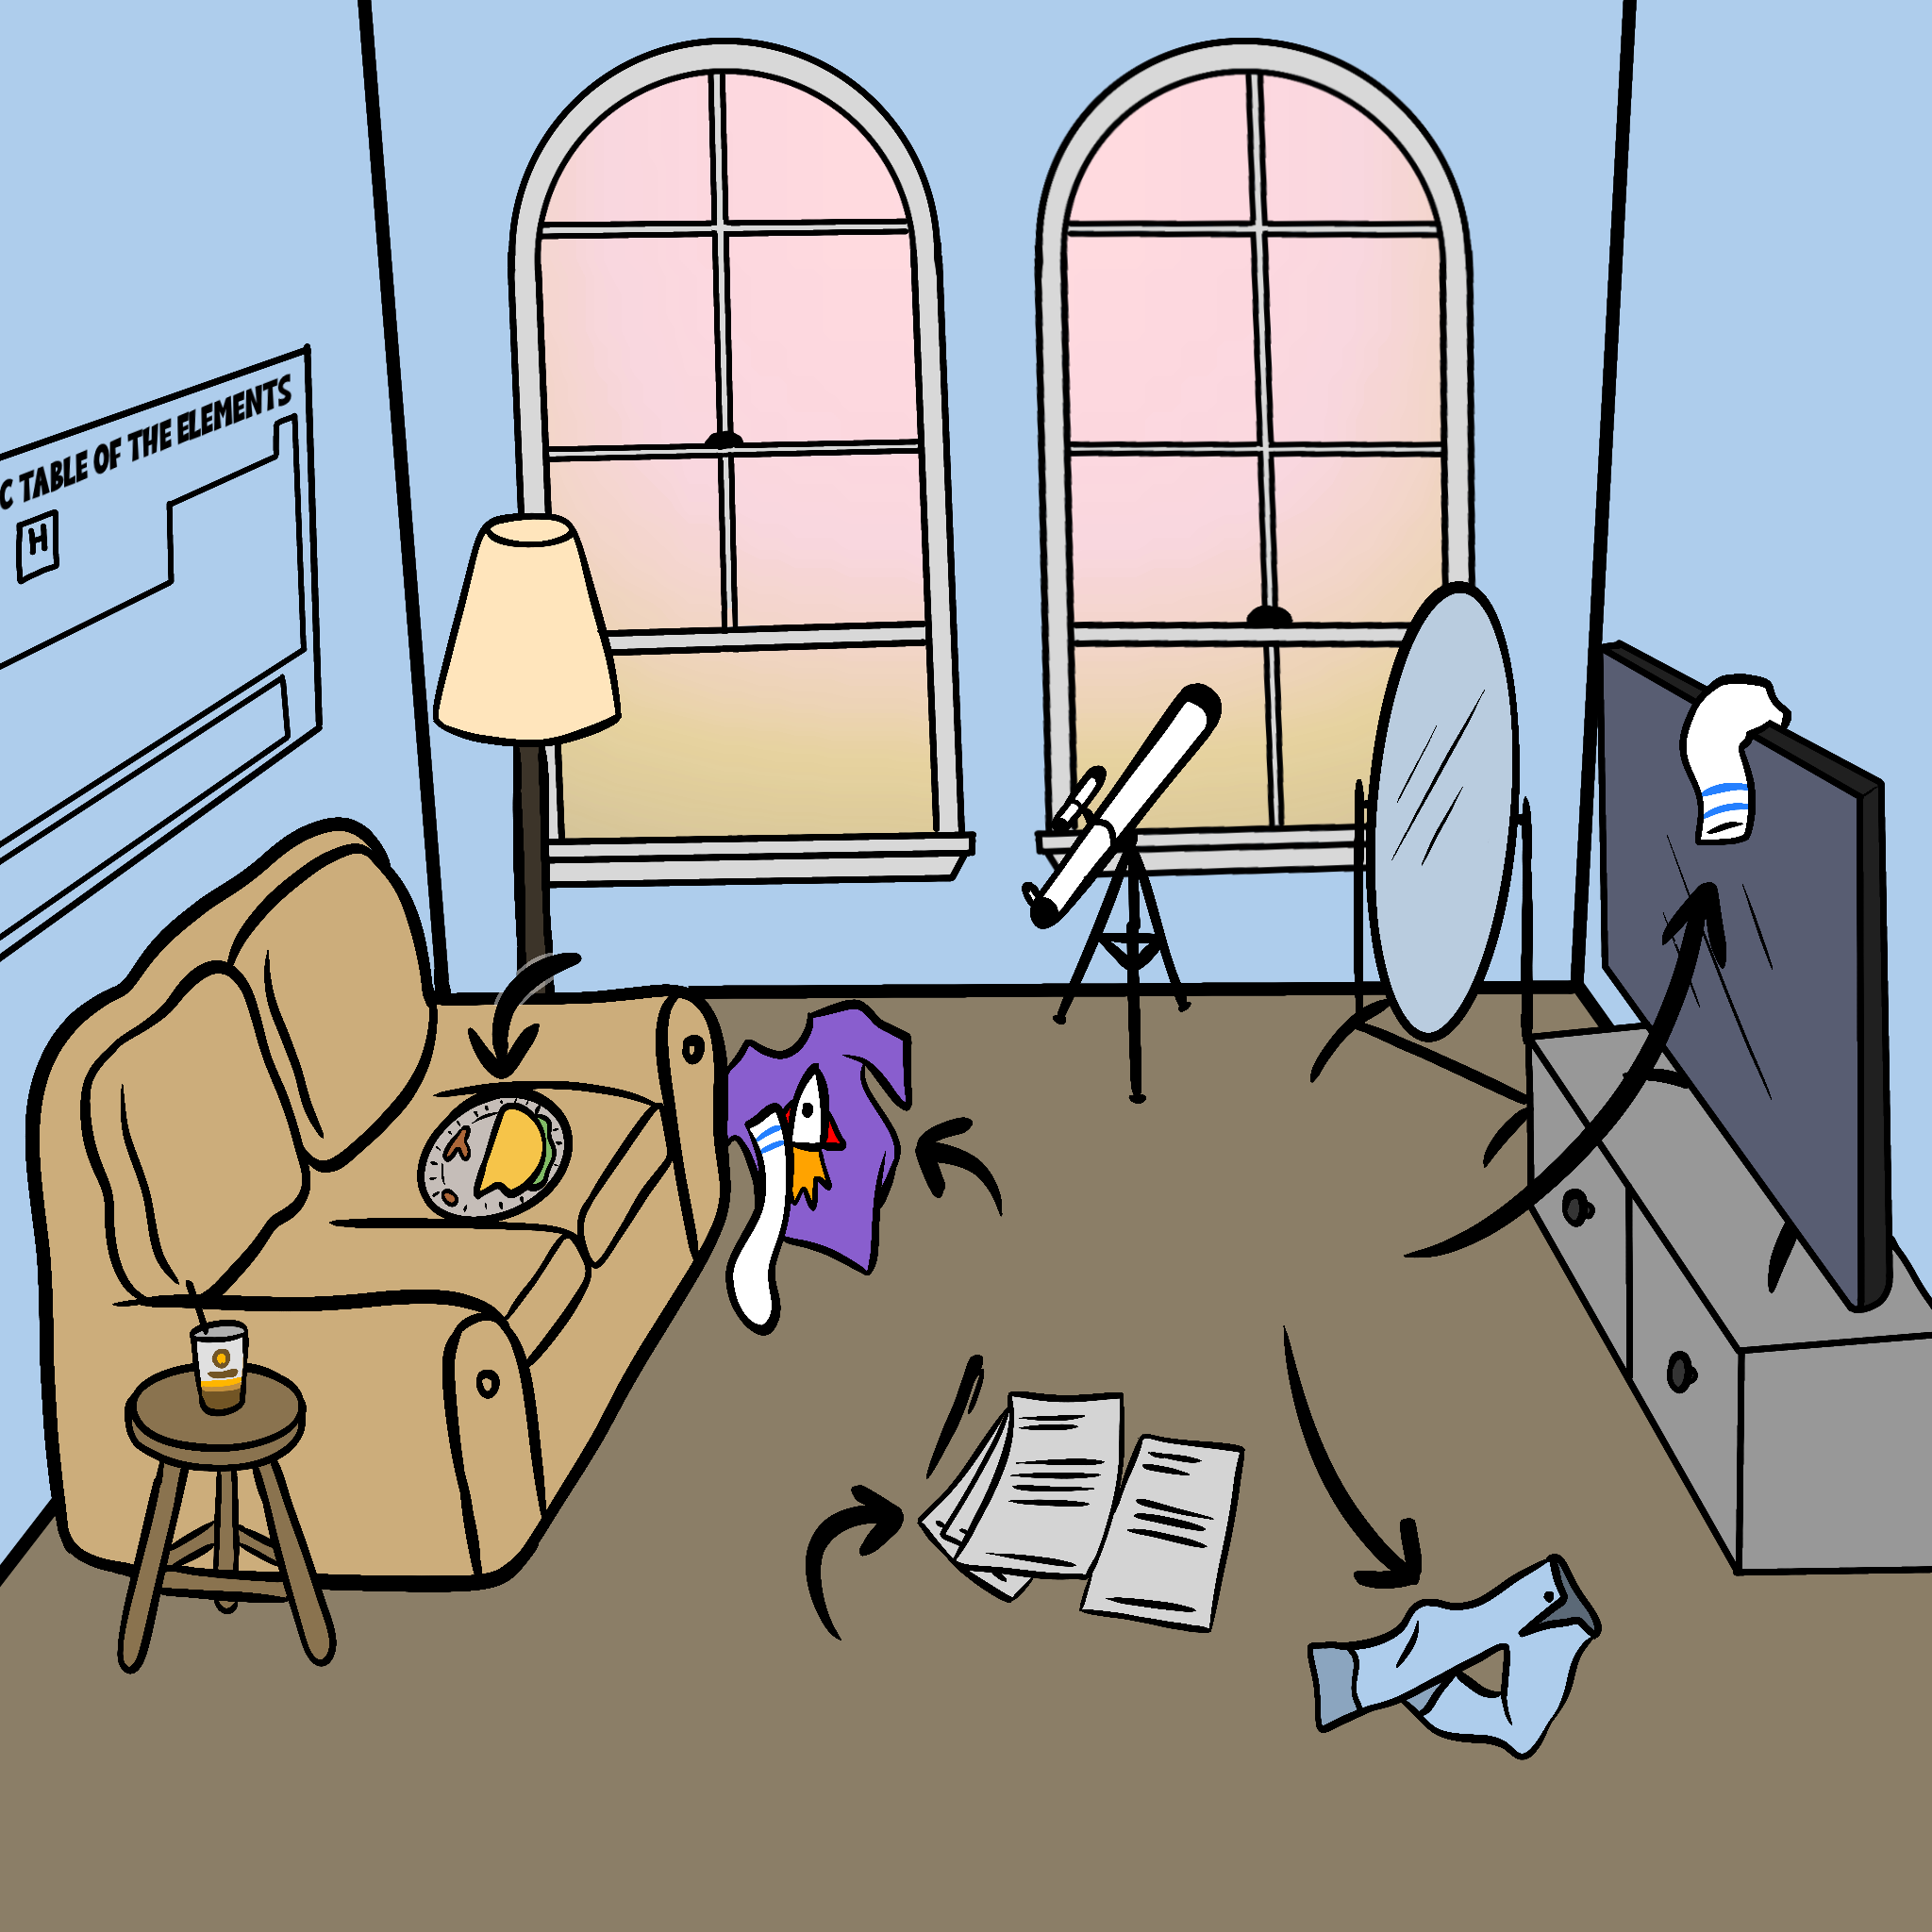
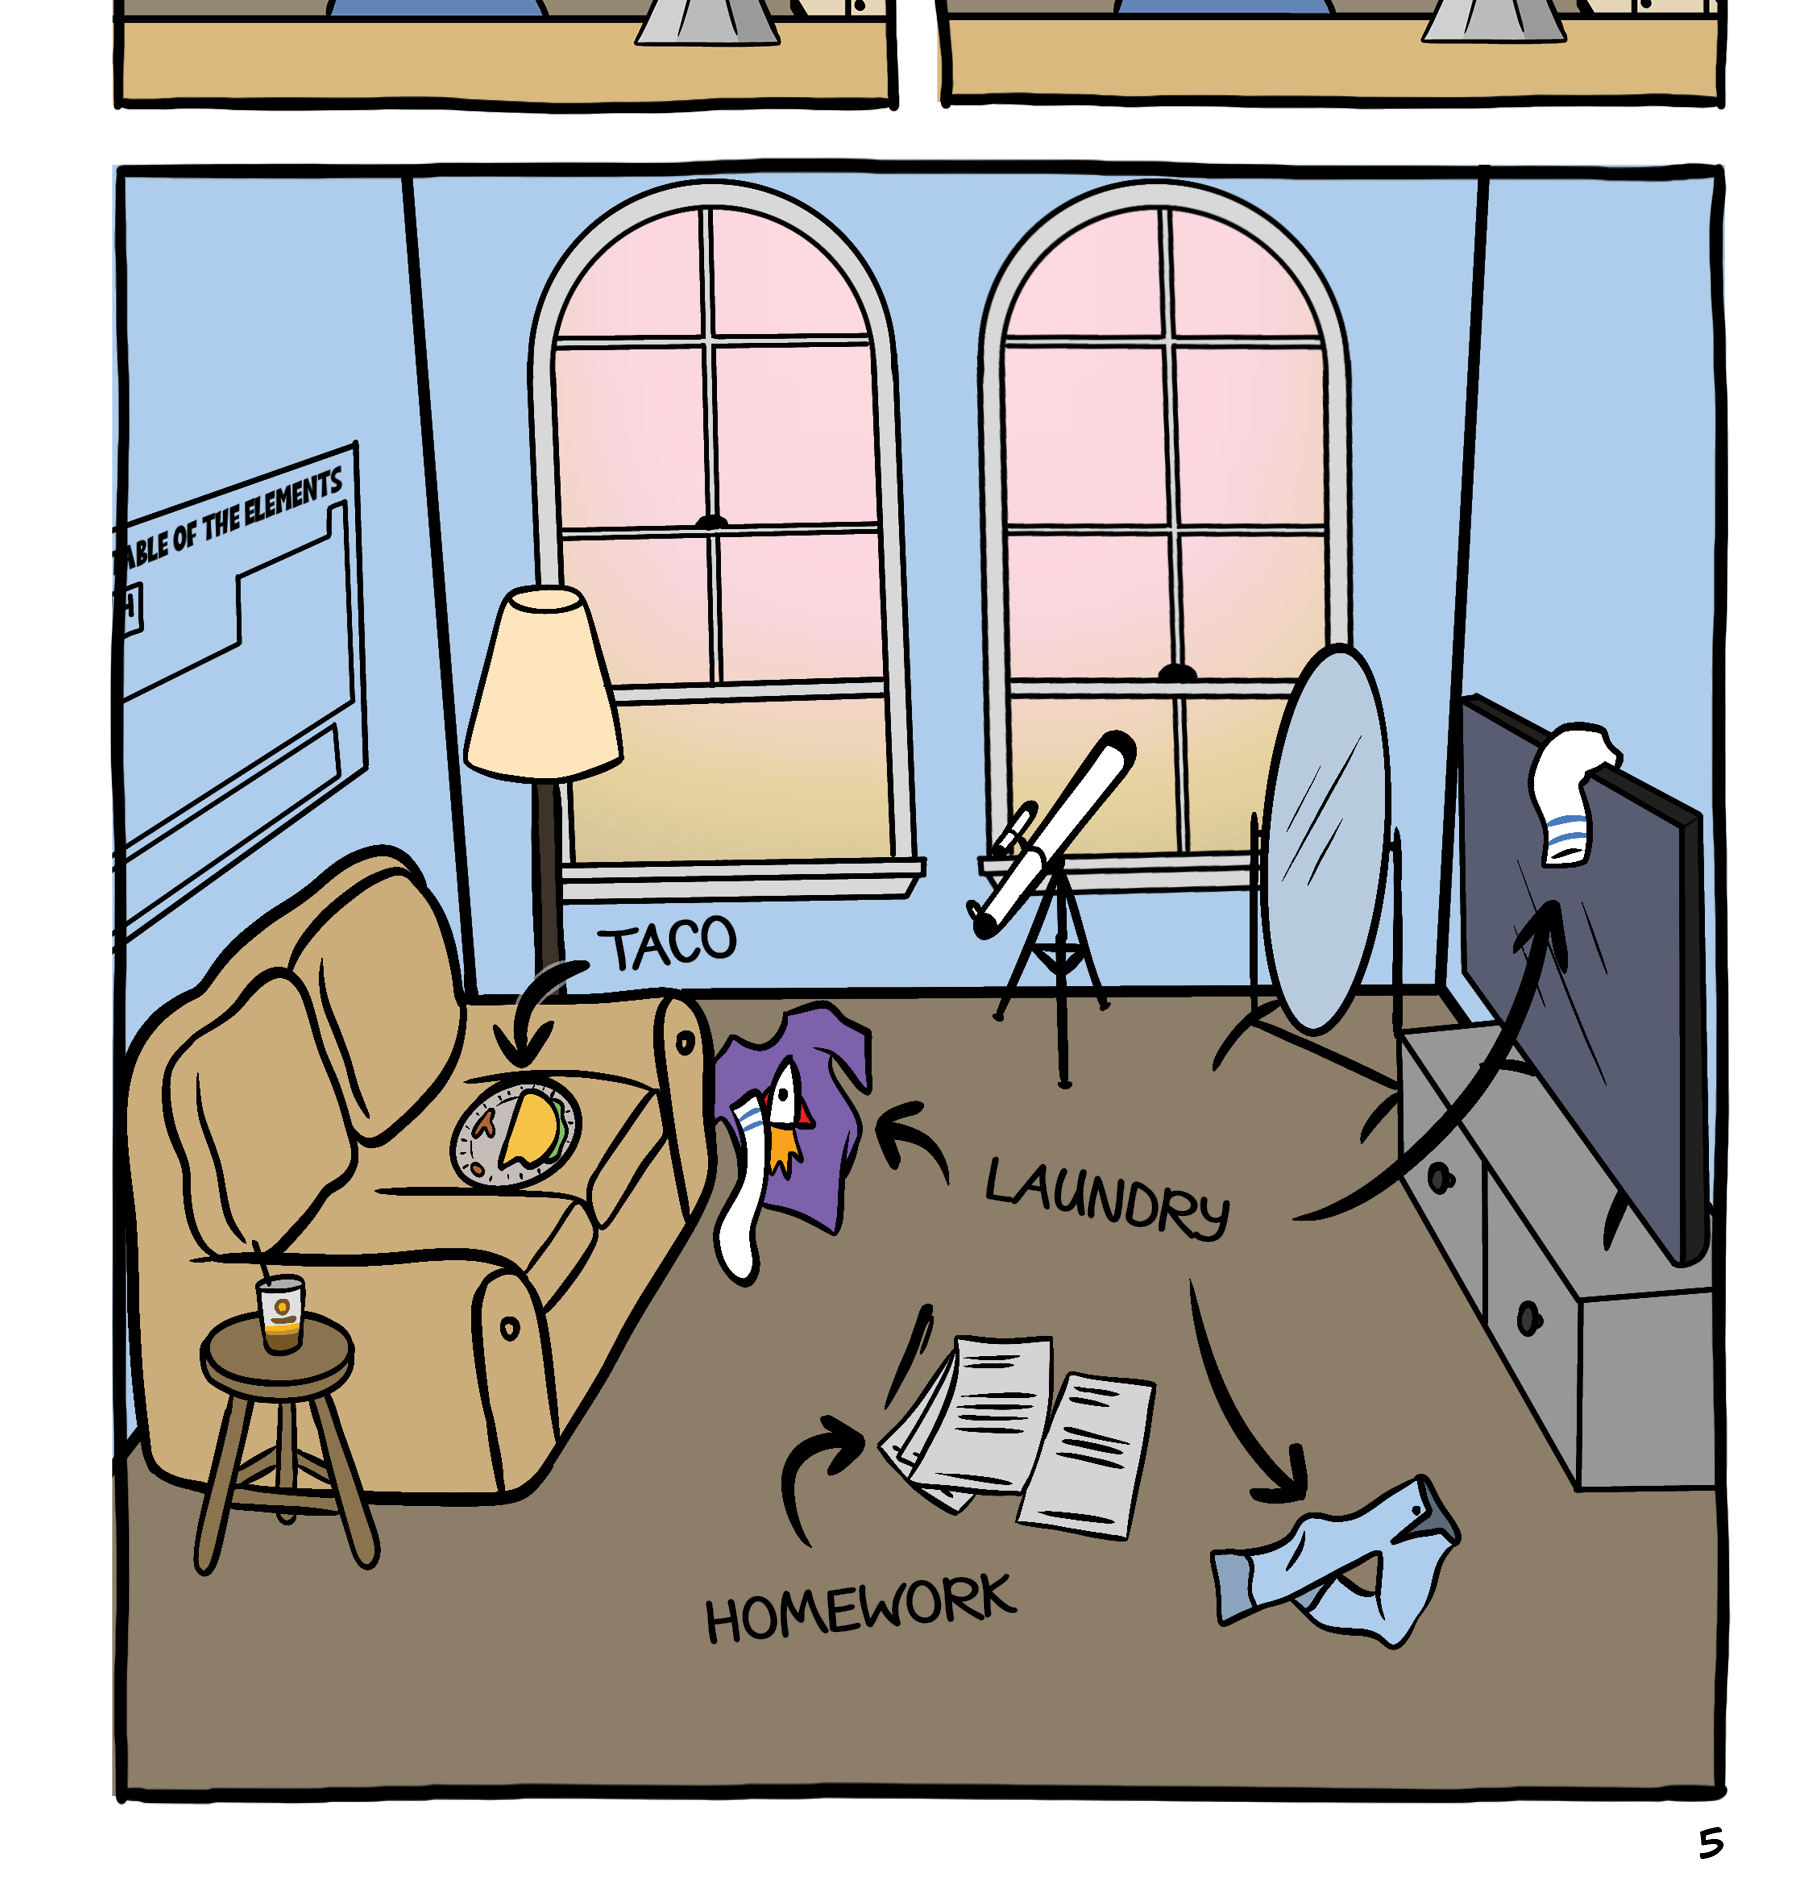
updated seo and image

diff --git a/head.html b/head.html
@@ -3,7 +3,7 @@
 
     <meta name="title" content="Grimsical Creations | Charlie's Microscopic Universe">
     <meta name="description" content="Official home of Grimsical Creations. Explore 'Charlie's Microscopic Universe,' a quirky graphic novel about young adulthood, retro-gaming, astrophysics, and young love.">
-    <meta name="keywords" content="Grimsical Official, Grimsical, Grimsical Creations, Be Grimsical, BeGrimsical, Charlie's Microscopic Universe, graphic novel, retro-gaming, 80s nostalgia, astrophysics comic, indie comics, Beaker and Night-Night, young adult fiction, comic zine">
+    <meta name="keywords" content="Grimsical Official, Grimsical, Grimsical Creations, Be Grimsical, BeGrimsical, Charlie's Microscopic Universe, graphic novel, retro-gaming, 80s nostalgia, astrophysics comic, indie comics, Beaker and Night-Night, young adult fiction, comic zine, C.P. Katt, cp katt">
     <meta name="author" content="Charles Catura / C.P. Katt">
     <meta property="og:site_name" content="Grimsical Creations">
     <meta property="og:type" content="website">